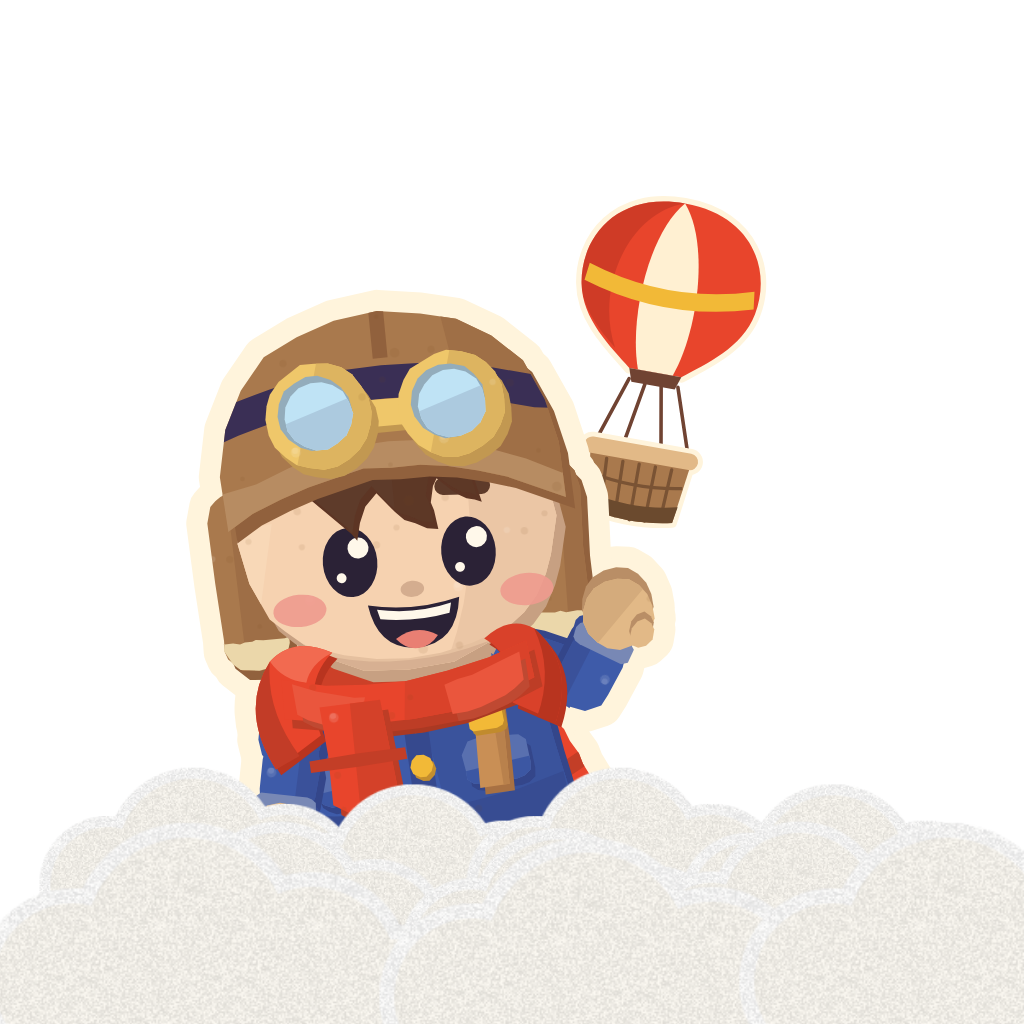
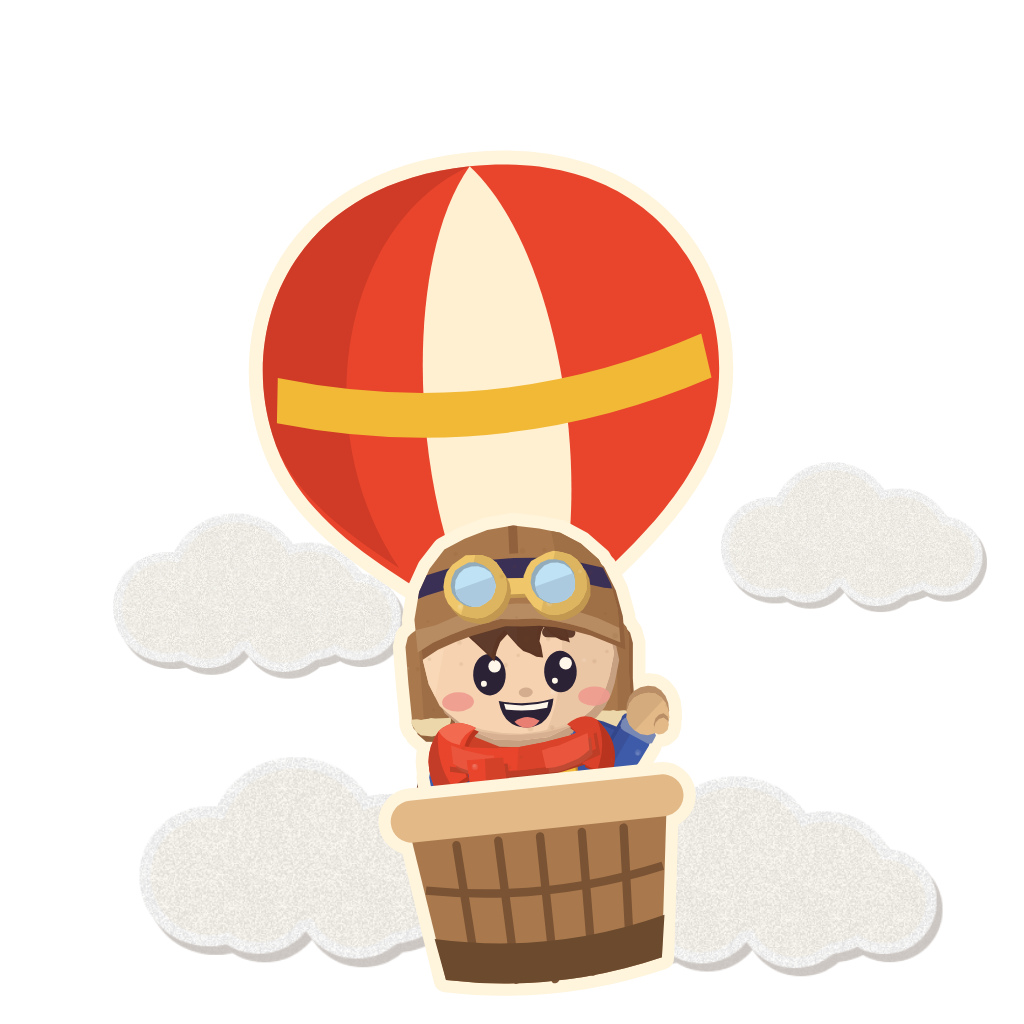
Ícono oficial: Nilo saludando en el globo, de cerca, sobre cielo celeste con nubes de papel (iOS, Android adaptativo con las nubes más adentro, y «Agregar a inicio» en la web)
Claude-Session: https://claude.ai/code/session_017FkcQpDzkf2gnNUK4w8AxS

diff --git a/scripts/iconos/icono.html b/scripts/iconos/icono.html
@@ -57,9 +57,10 @@ const skyBG=()=>{let o=`<div style="position:absolute;inset:0;background:radial-
  if(SKY==='rayos'||SKY==='ambos') o+=`<svg viewBox="0 0 1024 1024" width="${S}" height="${S}" style="position:absolute;inset:0"><g opacity=".16">${rays(512,330,20,'#FFFFFF')}</g></svg>`;
  if(SKY==='nubes'||SKY==='ambos') o+=img(cloud,-170,560,440,.95)+img(cloud,760,470,400,.95)+img(cloud,-120,860,560,1)+img(cloud,620,880,560,1);
  return o;};
-if(GLOBO&&(mode==='icon'||mode==='bg')) h=skyBG();
+if(GLOBO&&mode==='icon') h=skyBG();
+if(GLOBO&&mode==='bg') h=skyBG().replace(/<img[^>]*>/g,''); // Android: las nubes van en el frente, más adentro, para que el círculo no las corte
 if(GLOBO&&mode==='icon') h+=globoScene();
-if(GLOBO&&mode==='fg') h=`<div style="position:absolute;inset:0;transform:scale(.667);transform-origin:50% 50%">${globoScene()}</div>`;
+if(GLOBO&&mode==='fg') h=((SKY==='nubes'||SKY==='ambos')?img(cloud,90,500,330,.95)+img(cloud,700,450,300,.95)+img(cloud,110,740,420,1)+img(cloud,560,760,400,1):'')+`<div style="position:absolute;inset:0;transform:scale(.667);transform-origin:50% 50%">${globoScene()}</div>`;
 if(GLOBO){}
 else if(OJOS&&mode==='icon'){ if(FONDO!=='rojo') h=`<div style="position:absolute;inset:0;background:${FONDO==='cielo'?'radial-gradient(circle at 40% 30%,#8FD0EE,#4E9CCB)':'radial-gradient(circle at 40% 30%,#FBF1DC,#E9D7B4)'}"></div>`; const K=L.k??18; if(L.globo) h+=bal(L.gx??690,L.gy??70,L.gw??130,8,''); h+=`<div style="position:absolute;inset:0;transform:rotate(${L.tilt??0}deg);transform-origin:50% 115%">`+nilo(512-60*K+(L.dx??0), (L.top??140)-3*K, 120*K, 0, JUEGO)+'</div>'; }
 else if(mode==='icon'){ h+= CABEZA ? bal(L.bx??700,L.by??60,L.bw??240,10,'')+nilo(L.nx??-138,L.ny??130,L.nw??1300,L.rot??-4,HEAD)+[[-240,0],[90,30],[400,0],[720,30]].map(([x,y])=>img(cloud,x,y+(L.cy??700),640,1)).join('')+[[-120,100],[300,120],[660,100]].map(([x,y])=>img(cloud,x,y+(L.cy??700),660,1)).join('') : scene(); }

diff --git a/scripts/iconos/render.py b/scripts/iconos/render.py
@@ -3,8 +3,9 @@
 import asyncio,sys,shutil,json
 from playwright.async_api import async_playwright
 from PIL import Image
-L=sys.argv[1] if len(sys.argv)>1 else '{}'
-POSE=sys.argv[2] if len(sys.argv)>2 else 'saludo'  # saludo | juego
+# ícono oficial: Nilo en el globo, de cerca, sobre cielo con nubes de papel
+L=sys.argv[1] if len(sys.argv)>1 else '{"gx":92,"gy":-60,"gw":840,"tilt":-6,"cielo":"nubes"}'
+POSE=sys.argv[2] if len(sys.argv)>2 else 'globo'  # saludo | juego
 OUT=sys.argv[3] if len(sys.argv)>3 else 'assets/'
 async def main():
   shutil.copy('scripts/iconos/icono.html','www/_icono.html')
